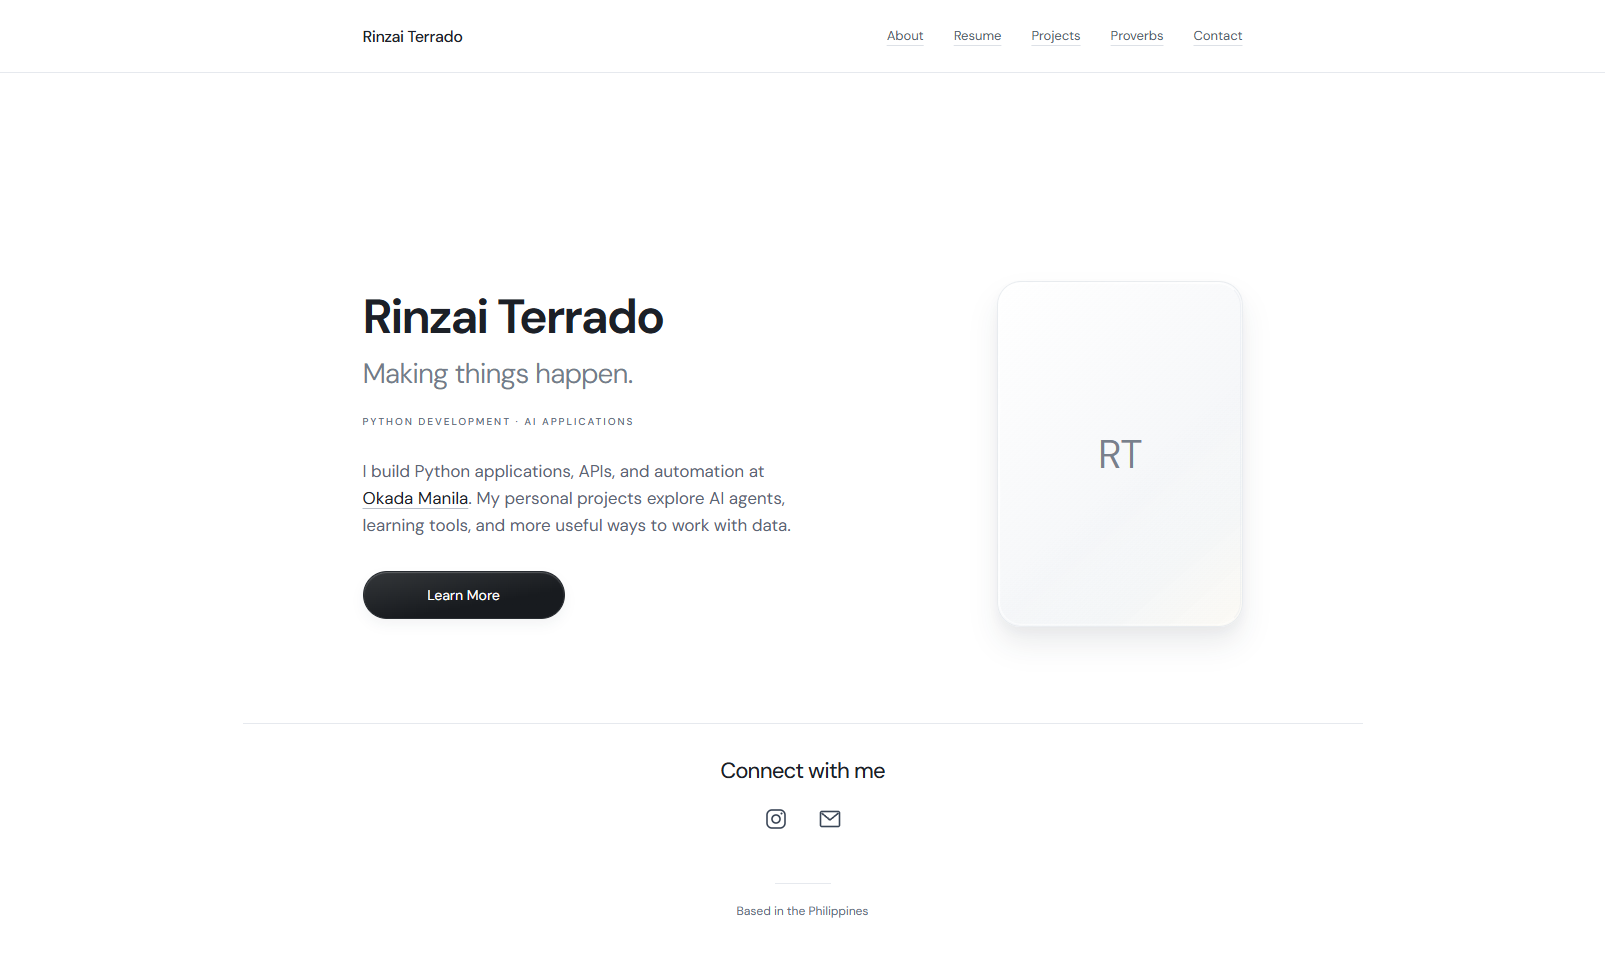
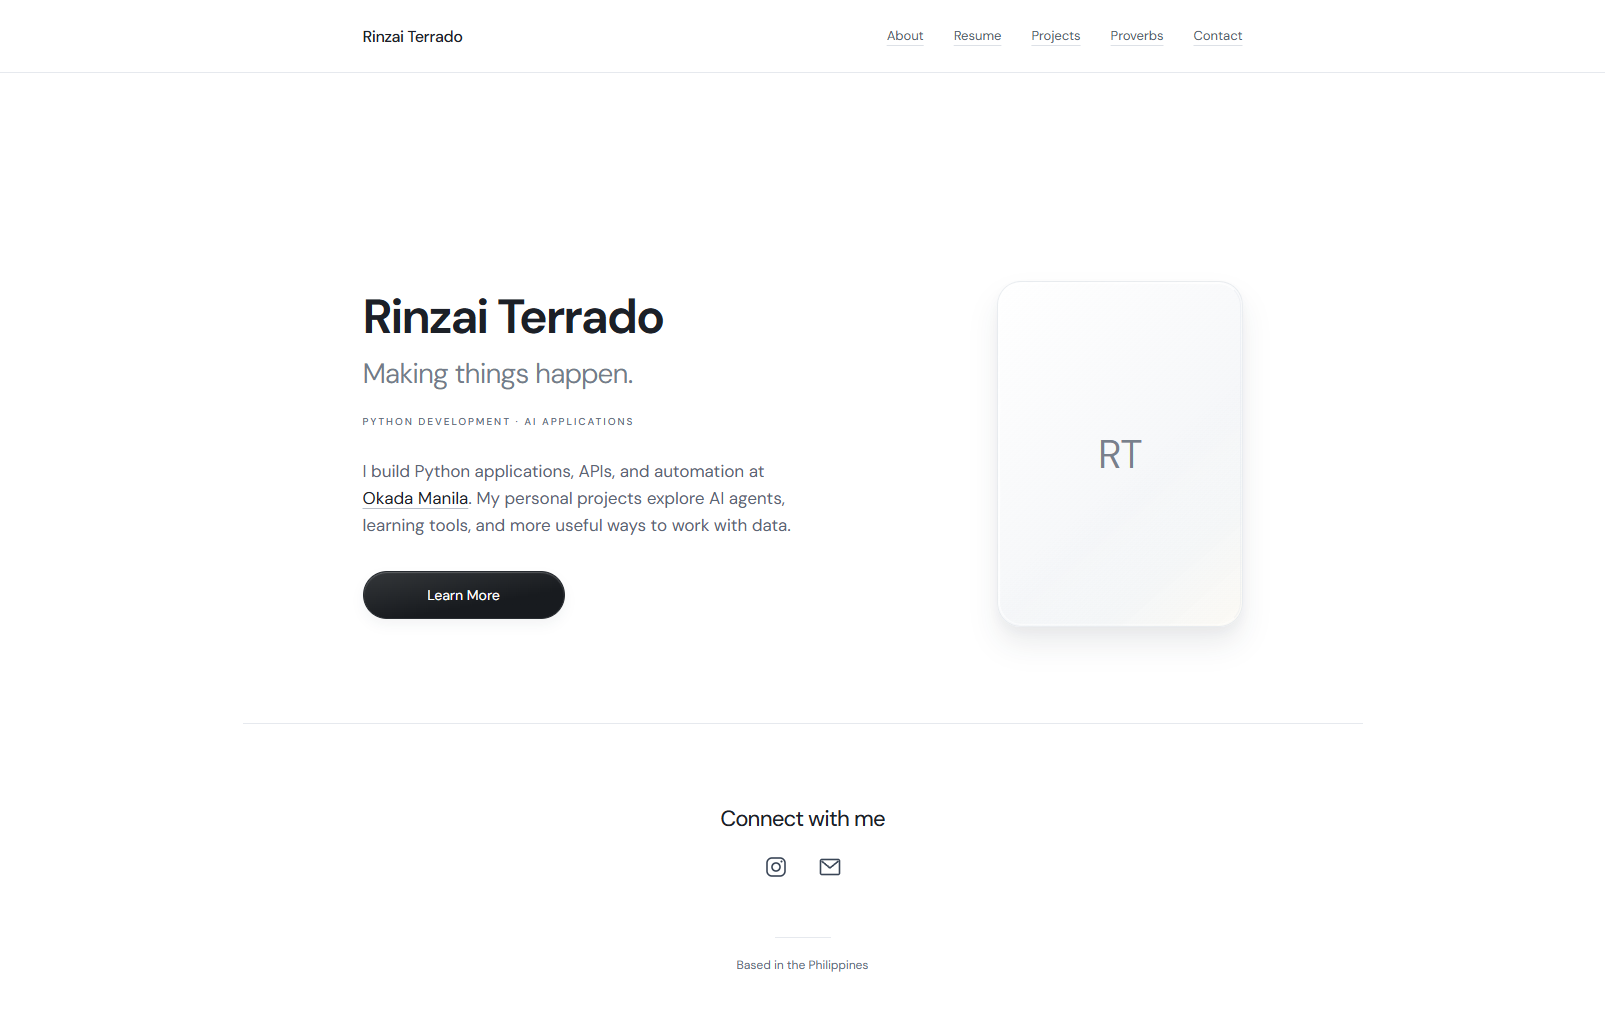
Use a shared connection footer with more vertical spacing

diff --git a/src/App.tsx b/src/App.tsx
@@ -3,6 +3,7 @@ import type { ReactNode } from 'react'
 import { Link, NavLink, Route, Routes, useLocation, useParams } from 'react-router'
 import { education, experience, notFoundMeta, pageMeta, profile, projects, publication, skillGroups } from './content'
 import type { Project, ProjectCategory } from './content'
+import Footer from './components/Footer'
 
 function Arrow({ diagonal = false }: { diagonal?: boolean }) {
   return <svg aria-hidden="true" width="20" height="20" viewBox="0 0 24 24" fill="none"><path d={diagonal ? 'M6 18 18 6M6 6h12v12' : 'M4 12h15m-6-6 6 6-6 6'} stroke="currentColor" strokeWidth="1.5" strokeLinecap="round" strokeLinejoin="round" /></svg>
@@ -55,17 +56,6 @@ function Header() {
       {navigation.map(item => <NavLink key={item.path} to={item.path} onClick={() => setOpen(false)} className={({ isActive }) => isActive ? 'nav-link active' : 'nav-link'}>{item.label}</NavLink>)}
     </nav>
   </div></header>
-}
-
-function Footer() {
-  return <footer className="site-footer shell"><p>Based in the Philippines</p></footer>
-}
-
-function SocialLinks() {
-  return <div className="social-links">
-    <a href={profile.instagramUrl} target="_blank" rel="noreferrer" className="social-link" aria-label="Instagram: rinzai._ (opens in a new tab)"><svg aria-hidden="true" width="24" height="24" viewBox="0 0 24 24" fill="none"><rect x="3" y="3" width="18" height="18" rx="5" stroke="currentColor" strokeWidth="1.6" /><circle cx="12" cy="12" r="4" stroke="currentColor" strokeWidth="1.6" /><circle cx="17.5" cy="6.5" r="1" fill="currentColor" /></svg></a>
-    <a href={`mailto:${profile.email}`} className="social-link" aria-label="Email Rinzai Terrado"><svg aria-hidden="true" width="24" height="24" viewBox="0 0 24 24" fill="none"><rect x="2.5" y="4.5" width="19" height="15" rx="1.5" stroke="currentColor" strokeWidth="1.6" /><path d="m3.5 6 8.5 7 8.5-7" stroke="currentColor" strokeWidth="1.6" strokeLinejoin="round" /></svg></a>
-  </div>
 }
 
 function PageEffects() {
@@ -122,19 +112,14 @@ function ProjectCard({ project }: { project: Project }) {
   return <article className="project-card"><Link to={`/projects/${project.slug}`} className="project-card-link"><ProjectArt project={project} /><div className="project-card-heading"><h3>{project.name}</h3><span className="project-card-arrow"><Arrow diagonal /></span></div><p>{project.description}</p><div className="project-meta"><span>{project.category}</span><span>Prototype</span></div></Link></article>
 }
 
-function ContactCallout() {
-  return <section className="contact-callout"><div><Label>Have something in mind?</Label><h2>Let’s make it <em>happen.</em></h2></div><Link to="/contact" className="circle-link" aria-label="Get in touch"><Arrow diagonal /></Link></section>
-}
-
 function Home() {
   return <>
     <section className="hero" aria-labelledby="home-title"><div className="hero-copy"><h1 id="home-title">Rinzai Terrado</h1><p className="hero-tagline">Making things happen.</p><Label>Python development · AI applications</Label><p className="hero-bio">I build Python applications, APIs, and automation at <a href={profile.employerUrl} target="_blank" rel="noreferrer">Okada Manila</a>. My personal projects explore AI agents, learning tools, and more useful ways to work with data.</p><div className="hero-actions"><Link to="/about" className="button button-dark">Learn More</Link></div></div><Monogram /></section>
-    <section className="home-connect" aria-labelledby="connect-title"><h2 id="connect-title">Connect with me</h2><SocialLinks /></section>
   </>
 }
 
 function About() {
-  return <><PageHeading number="01" label="A little about me" title={<>Curiosity, with<br /><em>a practical side.</em></>}>I’m Rinzai Terrado, a Python developer and data science professional based in the Philippines.</PageHeading><section className="about-layout"><Monogram /><div className="prose"><Label>What I do</Label><h2>Connecting ideas<br />to everyday work.</h2><p>At <a href={profile.employerUrl} target="_blank" rel="noreferrer">Okada Manila <span aria-hidden="true">↗</span></a>, I build and maintain internal applications that support marketing, analytics, and business operations.</p><p>My work brings together APIs, SQL data sources, machine learning models, and automated workflows. I help turn data and model outputs into tools that teams can use.</p><p>My personal projects explore another part of that curiosity: LLM applications, retrieval-augmented generation, natural language processing, and tool-enabled AI agents.</p><Link to="/resume" className="text-link">The full resume <Arrow /></Link></div></section><section className="section education-summary"><Label number="02">Foundations</Label><div><h2>{education.school}</h2><p>{education.degree}<br />{education.specialization}</p></div><span className="muted">{education.period}<br />{education.location}</span></section><ContactCallout /></>
+  return <><PageHeading number="01" label="A little about me" title={<>Curiosity, with<br /><em>a practical side.</em></>}>I’m Rinzai Terrado, a Python developer and data science professional based in the Philippines.</PageHeading><section className="about-layout"><Monogram /><div className="prose"><Label>What I do</Label><h2>Connecting ideas<br />to everyday work.</h2><p>At <a href={profile.employerUrl} target="_blank" rel="noreferrer">Okada Manila <span aria-hidden="true">↗</span></a>, I build and maintain internal applications that support marketing, analytics, and business operations.</p><p>My work brings together APIs, SQL data sources, machine learning models, and automated workflows. I help turn data and model outputs into tools that teams can use.</p><p>My personal projects explore another part of that curiosity: LLM applications, retrieval-augmented generation, natural language processing, and tool-enabled AI agents.</p><Link to="/resume" className="text-link">The full resume <Arrow /></Link></div></section><section className="section education-summary"><Label number="02">Foundations</Label><div><h2>{education.school}</h2><p>{education.degree}<br />{education.specialization}</p></div><span className="muted">{education.period}<br />{education.location}</span></section></>
 }
 
 function Resume() {
@@ -143,14 +128,14 @@ function Resume() {
       <section id="skills" className="resume-section"><Label number="02">Skills & tools</Label>{skillGroups.map(group => <div key={group.name} className="skill-group"><h3>{group.name}</h3><div className="tags">{group.skills.map(skill => <span key={skill}>{skill}</span>)}</div></div>)}</section>
       <section id="education" className="resume-section"><Label number="03">Education</Label><div className="resume-entry-heading"><div><h2>{education.school}</h2><p>{education.degree}</p></div><span>{education.period}</span></div><p>{education.specialization}<br /><span className="muted">{education.location}</span></p></section>
       <section id="research" className="resume-section"><Label number="04">Research & publication</Label><h2 className="publication-title">{publication.title}</h2><p>{publication.venue}<br /><span className="muted">{publication.details}</span></p></section>
-    </div></div><ContactCallout /></>
+    </div></div></>
 }
 
 function Projects() {
   const [filter, setFilter] = useState<ProjectCategory | 'All projects'>('All projects')
   const filters: (ProjectCategory | 'All projects')[] = ['All projects', 'AI systems', 'Learning tools', 'Media tools']
   const filteredProjects = filter === 'All projects' ? projects : projects.filter(project => project.category === filter)
-  return <><PageHeading number="03" label="Projects & experiments" title={<>A few things<br /><em>I’ve been building.</em></>}>Personal prototypes exploring AI, learning, and the possibilities between an idea and a useful tool.</PageHeading><div className="project-filters" role="group" aria-label="Filter projects by category">{filters.map(item => <button key={item} className={filter === item ? 'filter-button selected' : 'filter-button'} aria-pressed={filter === item} onClick={() => setFilter(item)}>{item}<span>{item === 'All projects' ? projects.length : projects.filter(project => project.category === item).length}</span></button>)}</div><p className="sr-only" role="status">Showing {filteredProjects.length} {filteredProjects.length === 1 ? 'project' : 'projects'}</p><div className="project-grid projects-page-grid">{filteredProjects.map(project => <ProjectCard key={project.slug} project={project} />)}</div><ContactCallout /></>
+  return <><PageHeading number="03" label="Projects & experiments" title={<>A few things<br /><em>I’ve been building.</em></>}>Personal prototypes exploring AI, learning, and the possibilities between an idea and a useful tool.</PageHeading><div className="project-filters" role="group" aria-label="Filter projects by category">{filters.map(item => <button key={item} className={filter === item ? 'filter-button selected' : 'filter-button'} aria-pressed={filter === item} onClick={() => setFilter(item)}>{item}<span>{item === 'All projects' ? projects.length : projects.filter(project => project.category === item).length}</span></button>)}</div><p className="sr-only" role="status">Showing {filteredProjects.length} {filteredProjects.length === 1 ? 'project' : 'projects'}</p><div className="project-grid projects-page-grid">{filteredProjects.map(project => <ProjectCard key={project.slug} project={project} />)}</div></>
 }
 
 function ProjectDetail() {
@@ -162,7 +147,7 @@ function ProjectDetail() {
 }
 
 function Proverbs() {
-  return <><PageHeading number="04" label="Personal reflections & sayings" title={<>A moment<br /><em>to reflect.</em></>}>A few words to pause with.</PageHeading><section className="proverb-feature" aria-label="Personal saying"><span className="quote-mark" aria-hidden="true">“</span><blockquote>The Calmest Waves<br />Flow The <em>Firmest.</em></blockquote><span className="proverb-attribution">A personal saying · Rinzai Terrado</span><div className="wave-lines" aria-hidden="true"><svg viewBox="0 0 1000 140" fill="none"><path d="M-50 70C100-70 240 200 400 70S700-60 1050 70M-50 90C100-50 240 220 400 90S700-40 1050 90M-50 110C100-30 240 240 400 110S700-20 1050 110" stroke="currentColor" strokeWidth="1" /></svg></div></section><section className="proverb-small"><Label>Words to build by</Label><blockquote>“Making things happen.”</blockquote><span>Rinzai Terrado</span></section><ContactCallout /></>
+  return <><PageHeading number="04" label="Personal reflections & sayings" title={<>A moment<br /><em>to reflect.</em></>}>A few words to pause with.</PageHeading><section className="proverb-feature" aria-label="Personal saying"><span className="quote-mark" aria-hidden="true">“</span><blockquote>The Calmest Waves<br />Flow The <em>Firmest.</em></blockquote><span className="proverb-attribution">A personal saying · Rinzai Terrado</span><div className="wave-lines" aria-hidden="true"><svg viewBox="0 0 1000 140" fill="none"><path d="M-50 70C100-70 240 200 400 70S700-60 1050 70M-50 90C100-50 240 220 400 90S700-40 1050 90M-50 110C100-30 240 240 400 110S700-20 1050 110" stroke="currentColor" strokeWidth="1" /></svg></div></section><section className="proverb-small"><Label>Words to build by</Label><blockquote>“Making things happen.”</blockquote><span>Rinzai Terrado</span></section></>
 }
 
 function Contact() {

diff --git a/src/styles.css b/src/styles.css
@@ -23,6 +23,8 @@
 * { box-sizing: border-box; }
 html { scroll-behavior: smooth; scroll-padding-top: 28px; }
 body { margin: 0; }
+#root { min-height: 100vh; min-height: 100svh; display: flex; flex-direction: column; }
+main.shell { flex: 1; }
 a { color: inherit; text-decoration: none; text-underline-offset: 4px; }
 button { font: inherit; color: inherit; cursor: pointer; }
 a, button { -webkit-tap-highlight-color: transparent; }
@@ -38,7 +40,7 @@ h3 { font-size: 19px; }
 em { color: inherit; font-style: normal; font-weight: inherit; }
 svg { flex-shrink: 0; }
 .shell { width: min(100% - 80px, 1120px); margin-inline: auto; }
-.site-header { height: 73px; border-bottom: 1px solid var(--line); }
+.site-header { height: 73px; flex-shrink: 0; border-bottom: 1px solid var(--line); }
 .header-inner { width: min(100% - 80px, 880px); height: 100%; margin-inline: auto; display: flex; align-items: center; justify-content: space-between; gap: 30px; }
 .brand { font-size: 16px; letter-spacing: -.025em; font-weight: 500; white-space: nowrap; }
 .navigation { display: flex; align-items: center; gap: 30px; }
@@ -70,14 +72,13 @@ svg { flex-shrink: 0; }
 .identity-art::before { content: ''; position: absolute; inset: 1px; border: 1px solid #ffffffbd; border-right-color: #d8dee64d; border-radius: 23px; pointer-events: none; }
 .identity-art::after { content: ''; position: absolute; inset: 0; border-radius: inherit; background: linear-gradient(140deg, transparent 55%, #e3edf329 78%, #fff7e526); pointer-events: none; }
 .monogram { font-size: 40px; font-weight: 350; line-height: 1; letter-spacing: -.035em; color: #78808c; z-index: 1; }
-.home-connect { text-align: center; border-top: 1px solid var(--line); padding-top: 32px; }
-.home-connect h2 { font-size: 22px; line-height: 1.4; font-weight: 450; letter-spacing: -.035em; }
 .social-links { display: flex; align-items: center; justify-content: center; gap: 10px; margin-top: 10px; }
 .social-link { width: 44px; height: 44px; border-radius: 50%; color: #394556; display: grid; place-items: center; transition: background .2s, color .2s; }
 .social-link:hover { background: #f1f3f6; color: #111820; }
-.site-footer { text-align: center; padding-block: 42px 44px; }
-.site-footer::before { content: ''; display: block; width: 56px; height: 1px; background: var(--line); margin: 0 auto 18px; }
-.site-footer p { font-size: 12px; color: var(--muted); line-height: 1.6; }
+.site-footer { text-align: center; border-top: 1px solid var(--line); padding: 80px 0 44px; flex-shrink: 0; }
+.site-footer h2 { font-size: 22px; line-height: 1.4; font-weight: 450; letter-spacing: -.035em; }
+.footer-location { margin-top: 48px; font-size: 12px; color: var(--muted); line-height: 1.6; }
+.footer-location::before { content: ''; display: block; width: 56px; height: 1px; background: var(--line); margin: 0 auto 18px; }
 .page-heading { max-width: 880px; margin-inline: auto; padding: 88px 0 55px; }
 .page-heading h1 { margin-top: 22px; line-height: 1.18; }
 .page-intro { max-width: 520px; font-size: 15px; color: var(--muted); margin-top: 24px; }
@@ -94,11 +95,6 @@ svg { flex-shrink: 0; }
 .education-summary p { font-size: 13px; }
 .education-summary > span { text-align: right; font-size: 11px; line-height: 1.9; }
 .muted { color: var(--muted); }
-.contact-callout { border-top: 1px solid var(--line); padding: 45px 0 20px; display: flex; align-items: center; justify-content: space-between; gap: 20px; }
-.contact-callout h2 { font-size: 30px; font-weight: 500; margin-top: 15px; }
-.circle-link { width: 52px; height: 52px; display: grid; place-content: center; border-radius: 50%; border: 1px solid #e1e6ed; background: var(--glass); box-shadow: var(--glass-shadow); flex-shrink: 0; }
-.circle-link:hover { background: #f0f3f7; }
-.circle-link svg { width: 22px; height: 22px; }
 .resume-heading { display: flex; justify-content: space-between; align-items: flex-end; gap: 30px; max-width: 880px; margin-inline: auto; }
 .resume-heading .page-heading { margin: 0; }
 .resume-heading .button { margin-bottom: 60px; }
@@ -321,10 +317,9 @@ svg { flex-shrink: 0; }
   .hero-actions .button { min-width: 175px; font-size: 13px; }
   .hero .identity-art { width: 205px; height: 285px; justify-self: center; border-radius: 22px; }
   .monogram { font-size: 36px; }
-  .home-connect { padding-top: 28px; }
-  .home-connect h2 { font-size: 20px; }
-  .site-footer { padding: 30px 0 32px; }
-  .site-footer p { font-size: 11px; }
+  .site-footer { padding: 60px 0 32px; }
+  .site-footer h2 { font-size: 20px; }
+  .footer-location { font-size: 11px; margin-top: 36px; }
   .page-heading { padding: 47px 0 35px; }
   .page-heading h1 { font-size: 35px; margin-top: 20px; }
   .page-intro { font-size: 14px; margin-top: 20px; }
@@ -334,9 +329,6 @@ svg { flex-shrink: 0; }
   .prose p { font-size: 14px; }
   .education-summary { display: flex; flex-direction: column; gap: 22px; }
   .education-summary h2 { font-size: 24px; }
-  .contact-callout { padding-top: 32px; }
-  .contact-callout h2 { font-size: 24px; max-width: 245px; line-height: 1.4; }
-  .circle-link { width: 46px; height: 46px; }
   .resume-layout { grid-template-columns: 1fr; gap: 35px; padding-block: 25px 45px; }
   .resume-sidebar { position: static; display: flex; flex-wrap: wrap; gap: 8px 20px; }
   .resume-sidebar > .eyebrow { width: 100%; margin-bottom: 0; }
@@ -416,7 +408,8 @@ svg { flex-shrink: 0; }
   *, *::before, *::after { transition: none !important; animation: none !important; }
 }
 @media print {
-  .site-header, .site-footer, .resume-sidebar, .contact-callout, .resume-heading > .button, .skip-link { display: none; }
+  #root { display: block; min-height: 0; }
+  .site-header, .site-footer, .resume-sidebar, .resume-heading > .button, .skip-link { display: none; }
   .shell { width: 100%; }
   .page-heading { padding: 10px 0 20px; }
   .page-heading h1 { font-size: 30px; }

diff --git a/src/components/Footer.tsx b/src/components/Footer.tsx
@@ -1,0 +1,25 @@
+import { profile } from '../content'
+
+export default function Footer() {
+  return (
+    <footer className="site-footer shell" aria-labelledby="footer-heading">
+      <h2 id="footer-heading">Connect with me</h2>
+      <div className="social-links">
+        <a href={profile.instagramUrl} target="_blank" rel="noreferrer" className="social-link" aria-label="Instagram: rinzai._ (opens in a new tab)">
+          <svg aria-hidden="true" width="24" height="24" viewBox="0 0 24 24" fill="none">
+            <rect x="3" y="3" width="18" height="18" rx="5" stroke="currentColor" strokeWidth="1.6" />
+            <circle cx="12" cy="12" r="4" stroke="currentColor" strokeWidth="1.6" />
+            <circle cx="17.5" cy="6.5" r="1" fill="currentColor" />
+          </svg>
+        </a>
+        <a href={`mailto:${profile.email}`} className="social-link" aria-label="Email Rinzai Terrado">
+          <svg aria-hidden="true" width="24" height="24" viewBox="0 0 24 24" fill="none">
+            <rect x="2.5" y="4.5" width="19" height="15" rx="1.5" stroke="currentColor" strokeWidth="1.6" />
+            <path d="m3.5 6 8.5 7 8.5-7" stroke="currentColor" strokeWidth="1.6" strokeLinejoin="round" />
+          </svg>
+        </a>
+      </div>
+      <p className="footer-location">Based in the Philippines</p>
+    </footer>
+  )
+}

diff --git a/README.md b/README.md
@@ -34,13 +34,14 @@ Browser tests cover desktop and mobile navigation, project filtering, direct rou
 
 - `src/content.ts`: professional background, skills, projects, and page metadata.
 - `src/App.tsx`: page structure, Proverbs, navigation, and interactions.
+- `src/components/Footer.tsx`: the shared “Connect with me” footer used on every page. Edit this component once to update the footer throughout the site.
 - `src/styles.css`: shared design variables, typography, responsive styles, and print layout.
 - `public/rinzai-terrado-resume.pdf`: the supplied resume, including its original contact details.
 - `public/social-card.png` and `public/favicon.svg`: sharing image and favicon.
 - `Documents/project-plan.md`: production plan and implementation status.
 - `References/`: local reference documents, excluded from Git and the public build.
 
-The approved visual reference is `Documents/Designs/homepage-liquid-glass-approved.png`. The homepage uses white space, sans-serif typography, a centered header, a translucent RT panel, one “Learn More” link to About, and a centered “Connect with me” section. Its Instagram link points to `rinzai._`; the email icon uses the resume's email address. Update both destinations in `src/content.ts`.
+The approved visual reference is `Documents/Designs/homepage-liquid-glass-approved.png`. The homepage uses white space, sans-serif typography, a centered header, a translucent RT panel, and one “Learn More” link to About. Every page ends with the same centered “Connect with me” footer, with extra space above its heading. Its Instagram link points to `rinzai._`; the email icon uses the resume's email address. Update both destinations in `src/content.ts`.
 
 The glass RT panel occupies the portrait position until a real photo is supplied. The remaining pages use the same typography, quiet dividers, and restrained glass treatments. Project graphics are concept illustrations. The four personal projects retain their prototype status. Proverbs contains the owner's supplied saying and homepage tagline. Donate is deferred until a destination is supplied.
 

diff --git a/Documents/project-plan.md b/Documents/project-plan.md
@@ -224,3 +224,7 @@ Reference: `Documents/Designs/homepage-liquid-glass-approved.png`.
 - Retain a centered “Based in the Philippines” footer.
 - Carry the same typography, neutral colors, rounded controls, and light glass surfaces through the other pages.
 - Keep the React + Vite stack, existing routes, project content, resume download, and deployment configuration.
+
+### Shared footer refinement
+
+The “Connect with me” heading, Instagram and email icons, and location now live in `src/components/Footer.tsx`, rendered once by the shared app layout on every page. This replaces the individual “Have something in mind? / Let’s make it happen” callouts and the homepage-only connection section. Extra padding places the heading lower, and the shared layout keeps the footer at the bottom of short pages. Future footer edits apply throughout the site from this one component.
